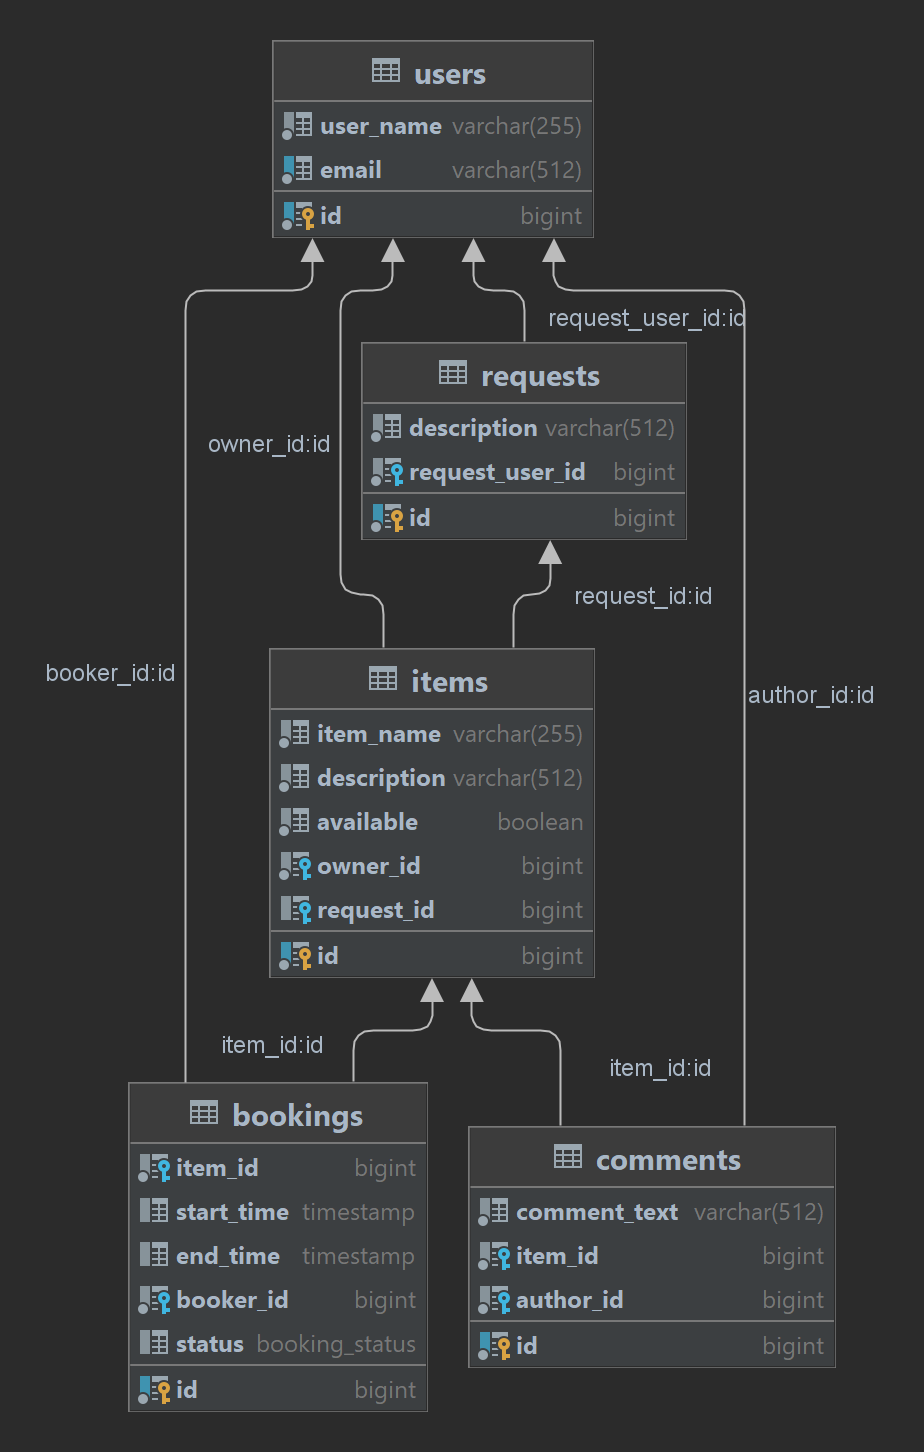
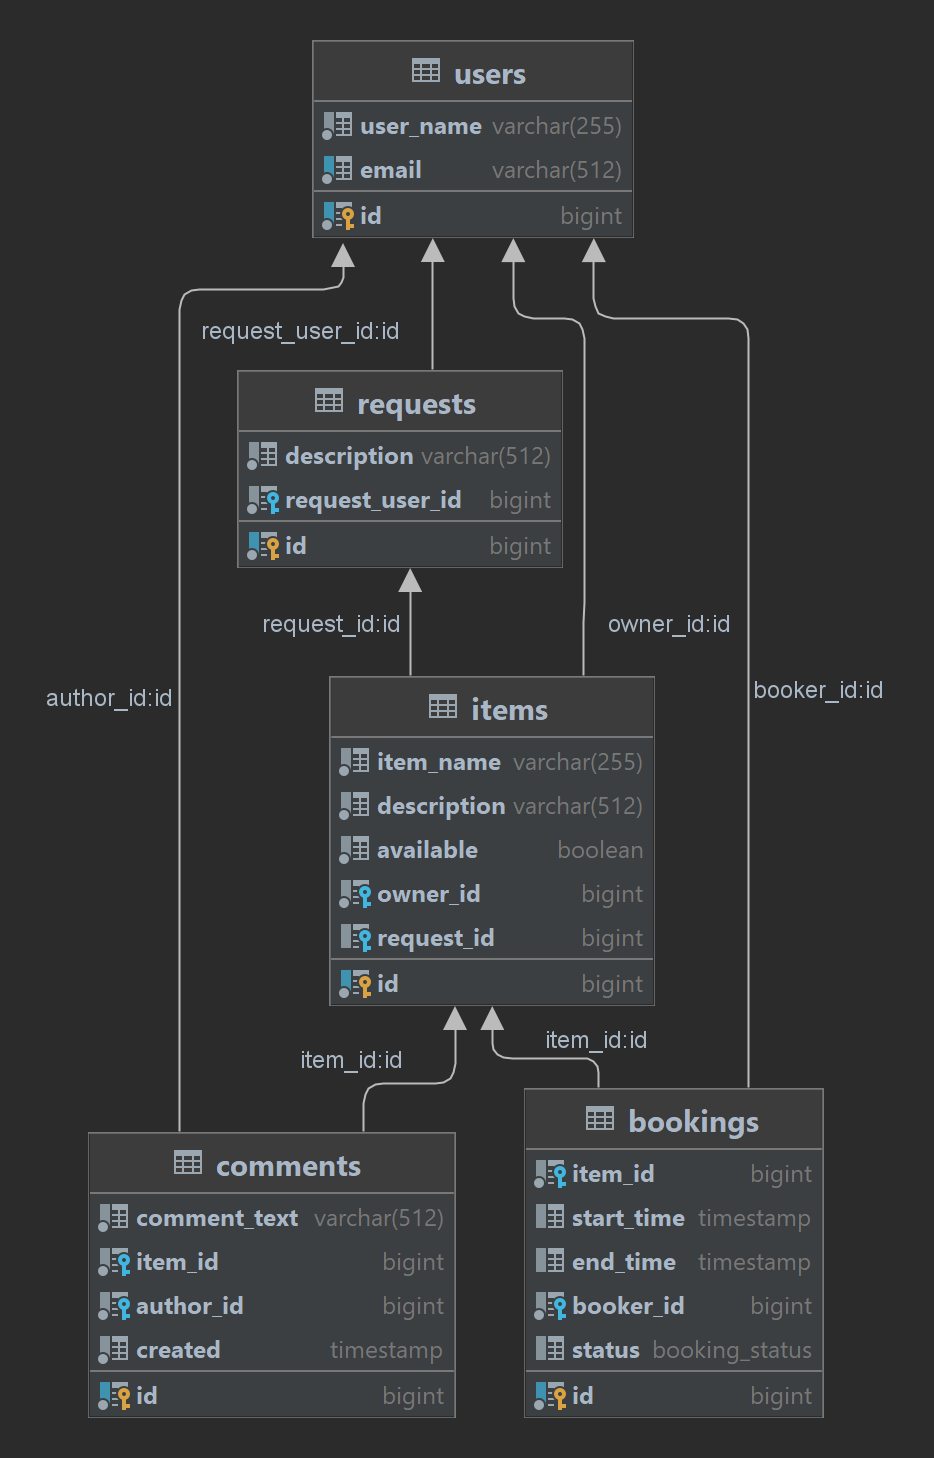
fix: README.md correcting 2.

Changed region(s): [[0.0303, 0.031, 0.9394, 0.9917]]

diff --git a/README.md b/README.md
@@ -16,36 +16,37 @@ Spring Boot, Maven, Lombok, REST, CRUD, PostgreSQL, Jakarta Persistence API, Que
 classDiagram
 direction BT
 class bookings {
-bigint item_id
-timestamp start_time
-timestamp end_time
-bigint booker_id
-booking_status status
-bigint id
+   bigint item_id
+   timestamp start_time
+   timestamp end_time
+   bigint booker_id
+   booking_status status
+   bigint id
 }
 class comments {
-varchar(512) comment_text
-bigint item_id
-bigint author_id
-bigint id
+   varchar(512) comment_text
+   bigint item_id
+   bigint author_id
+   timestamp created
+   bigint id
 }
 class items {
-varchar(255) item_name
-varchar(512) description
-boolean available
-bigint owner_id
-bigint request_id
-bigint id
+   varchar(255) item_name
+   varchar(512) description
+   boolean available
+   bigint owner_id
+   bigint request_id
+   bigint id
 }
 class requests {
-varchar(512) description
-bigint request_user_id
-bigint id
+   varchar(512) description
+   bigint request_user_id
+   bigint id
 }
 class users {
-varchar(255) user_name
-varchar(512) email
-bigint id
+   varchar(255) user_name
+   varchar(512) email
+   bigint id
 }
 
 bookings  -->  items : item_id:id
@@ -55,4 +56,5 @@ comments  -->  users : author_id:id
 items  -->  requests : request_id:id
 items  -->  users : owner_id:id
 requests  -->  users : request_user_id:id
+
 ```

diff --git a/assets/shareit.md b/assets/shareit.md
@@ -12,6 +12,7 @@ class comments {
    varchar(512) comment_text
    bigint item_id
    bigint author_id
+   timestamp created
    bigint id
 }
 class items {
